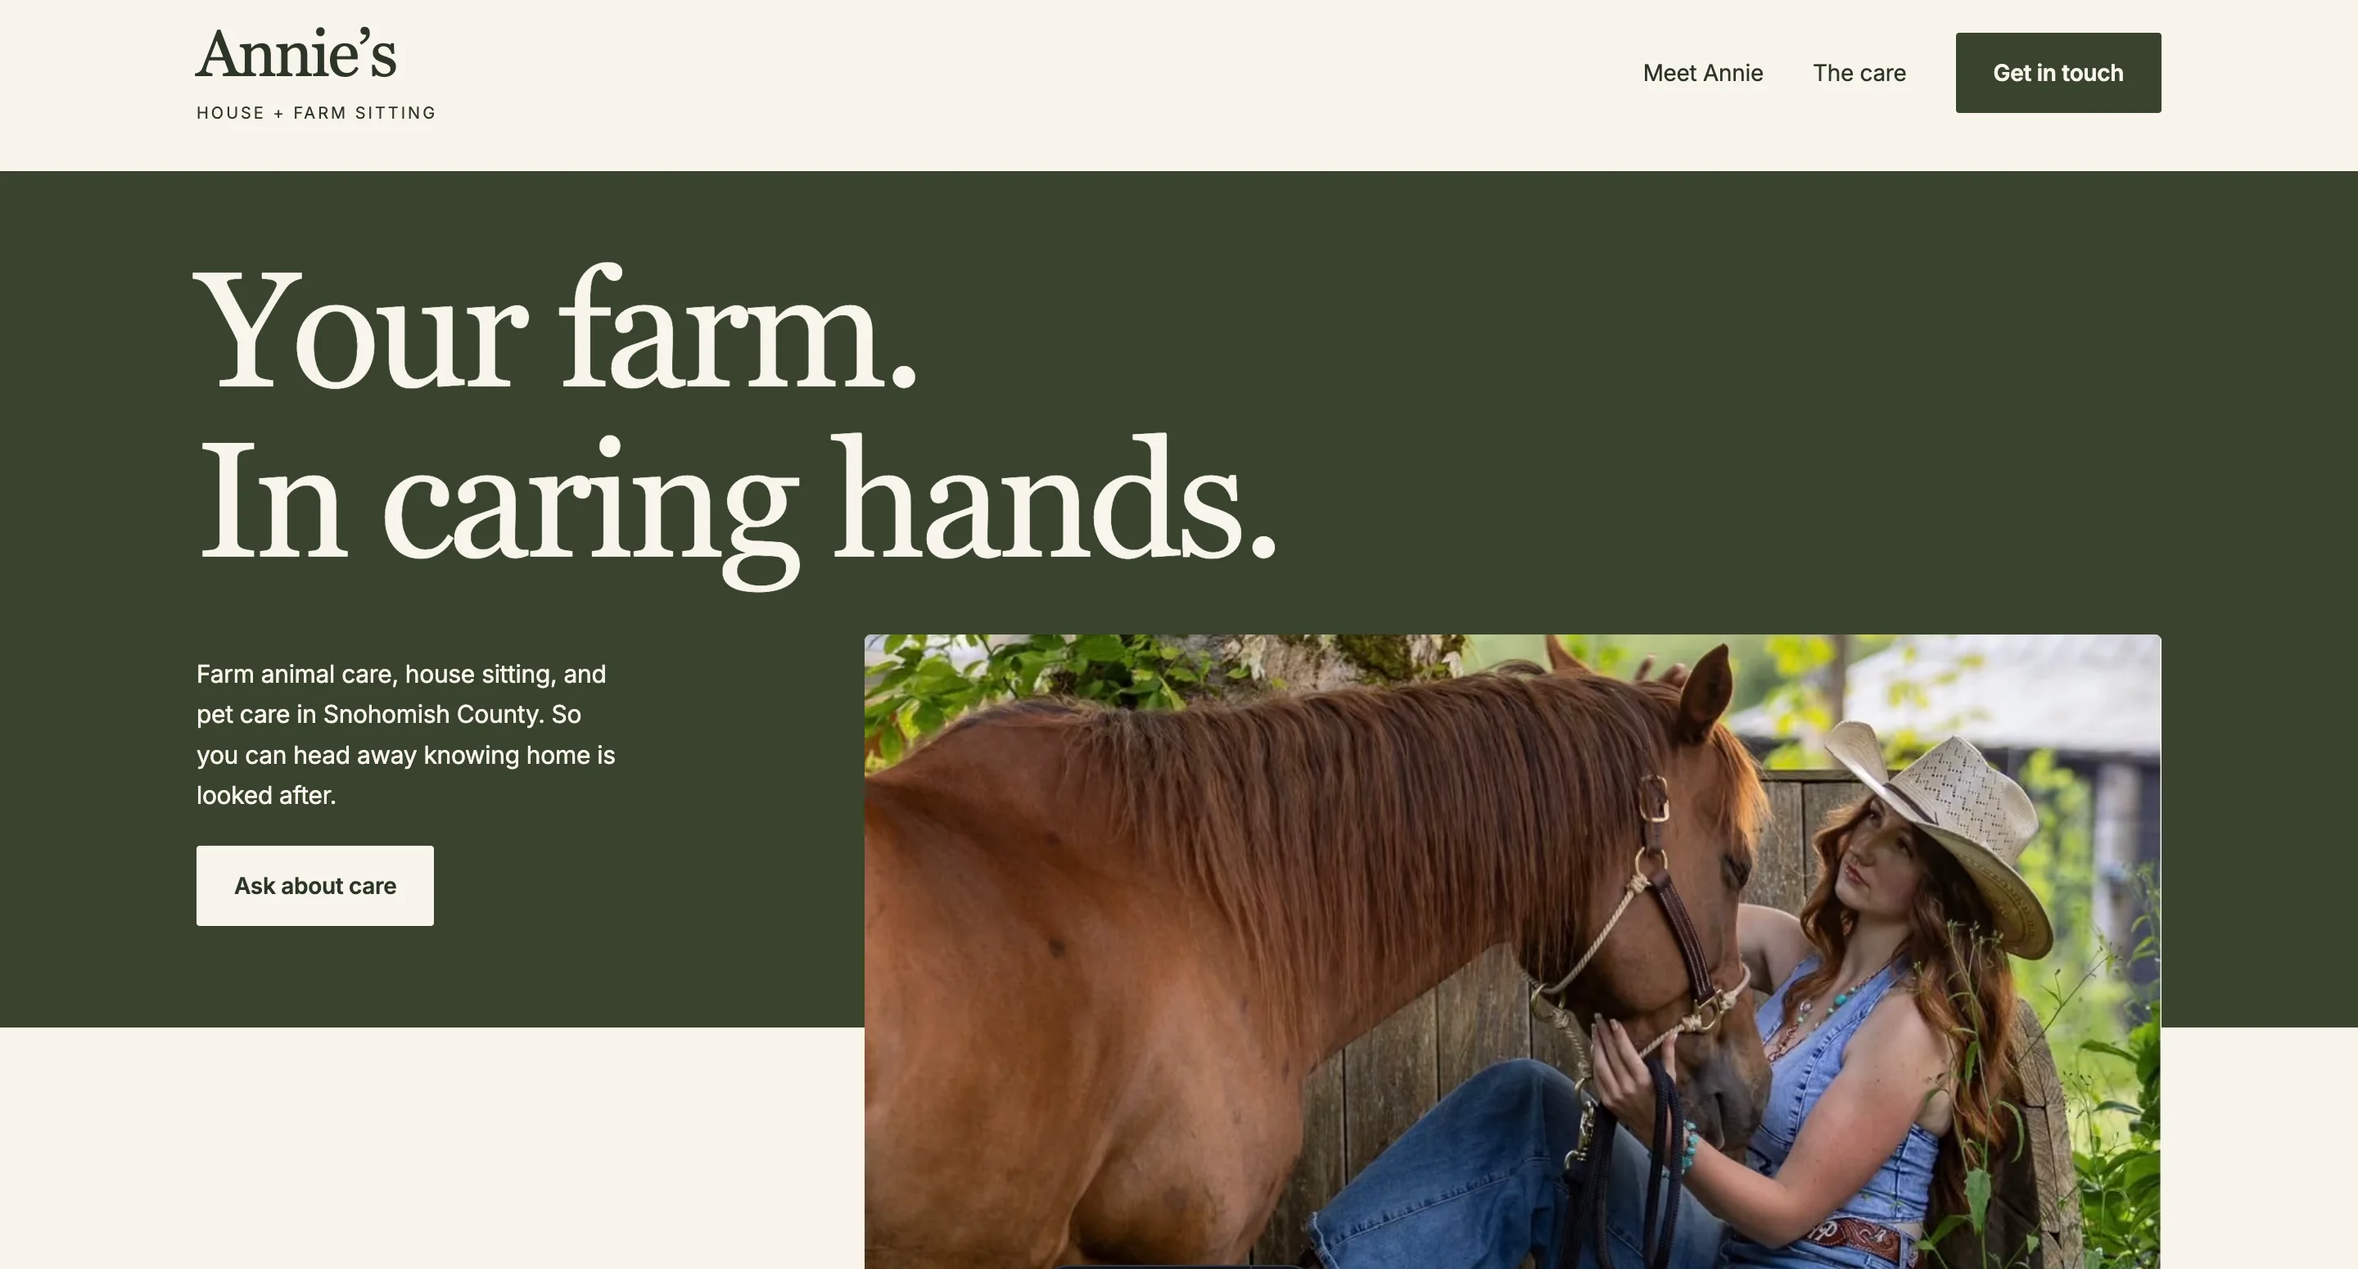
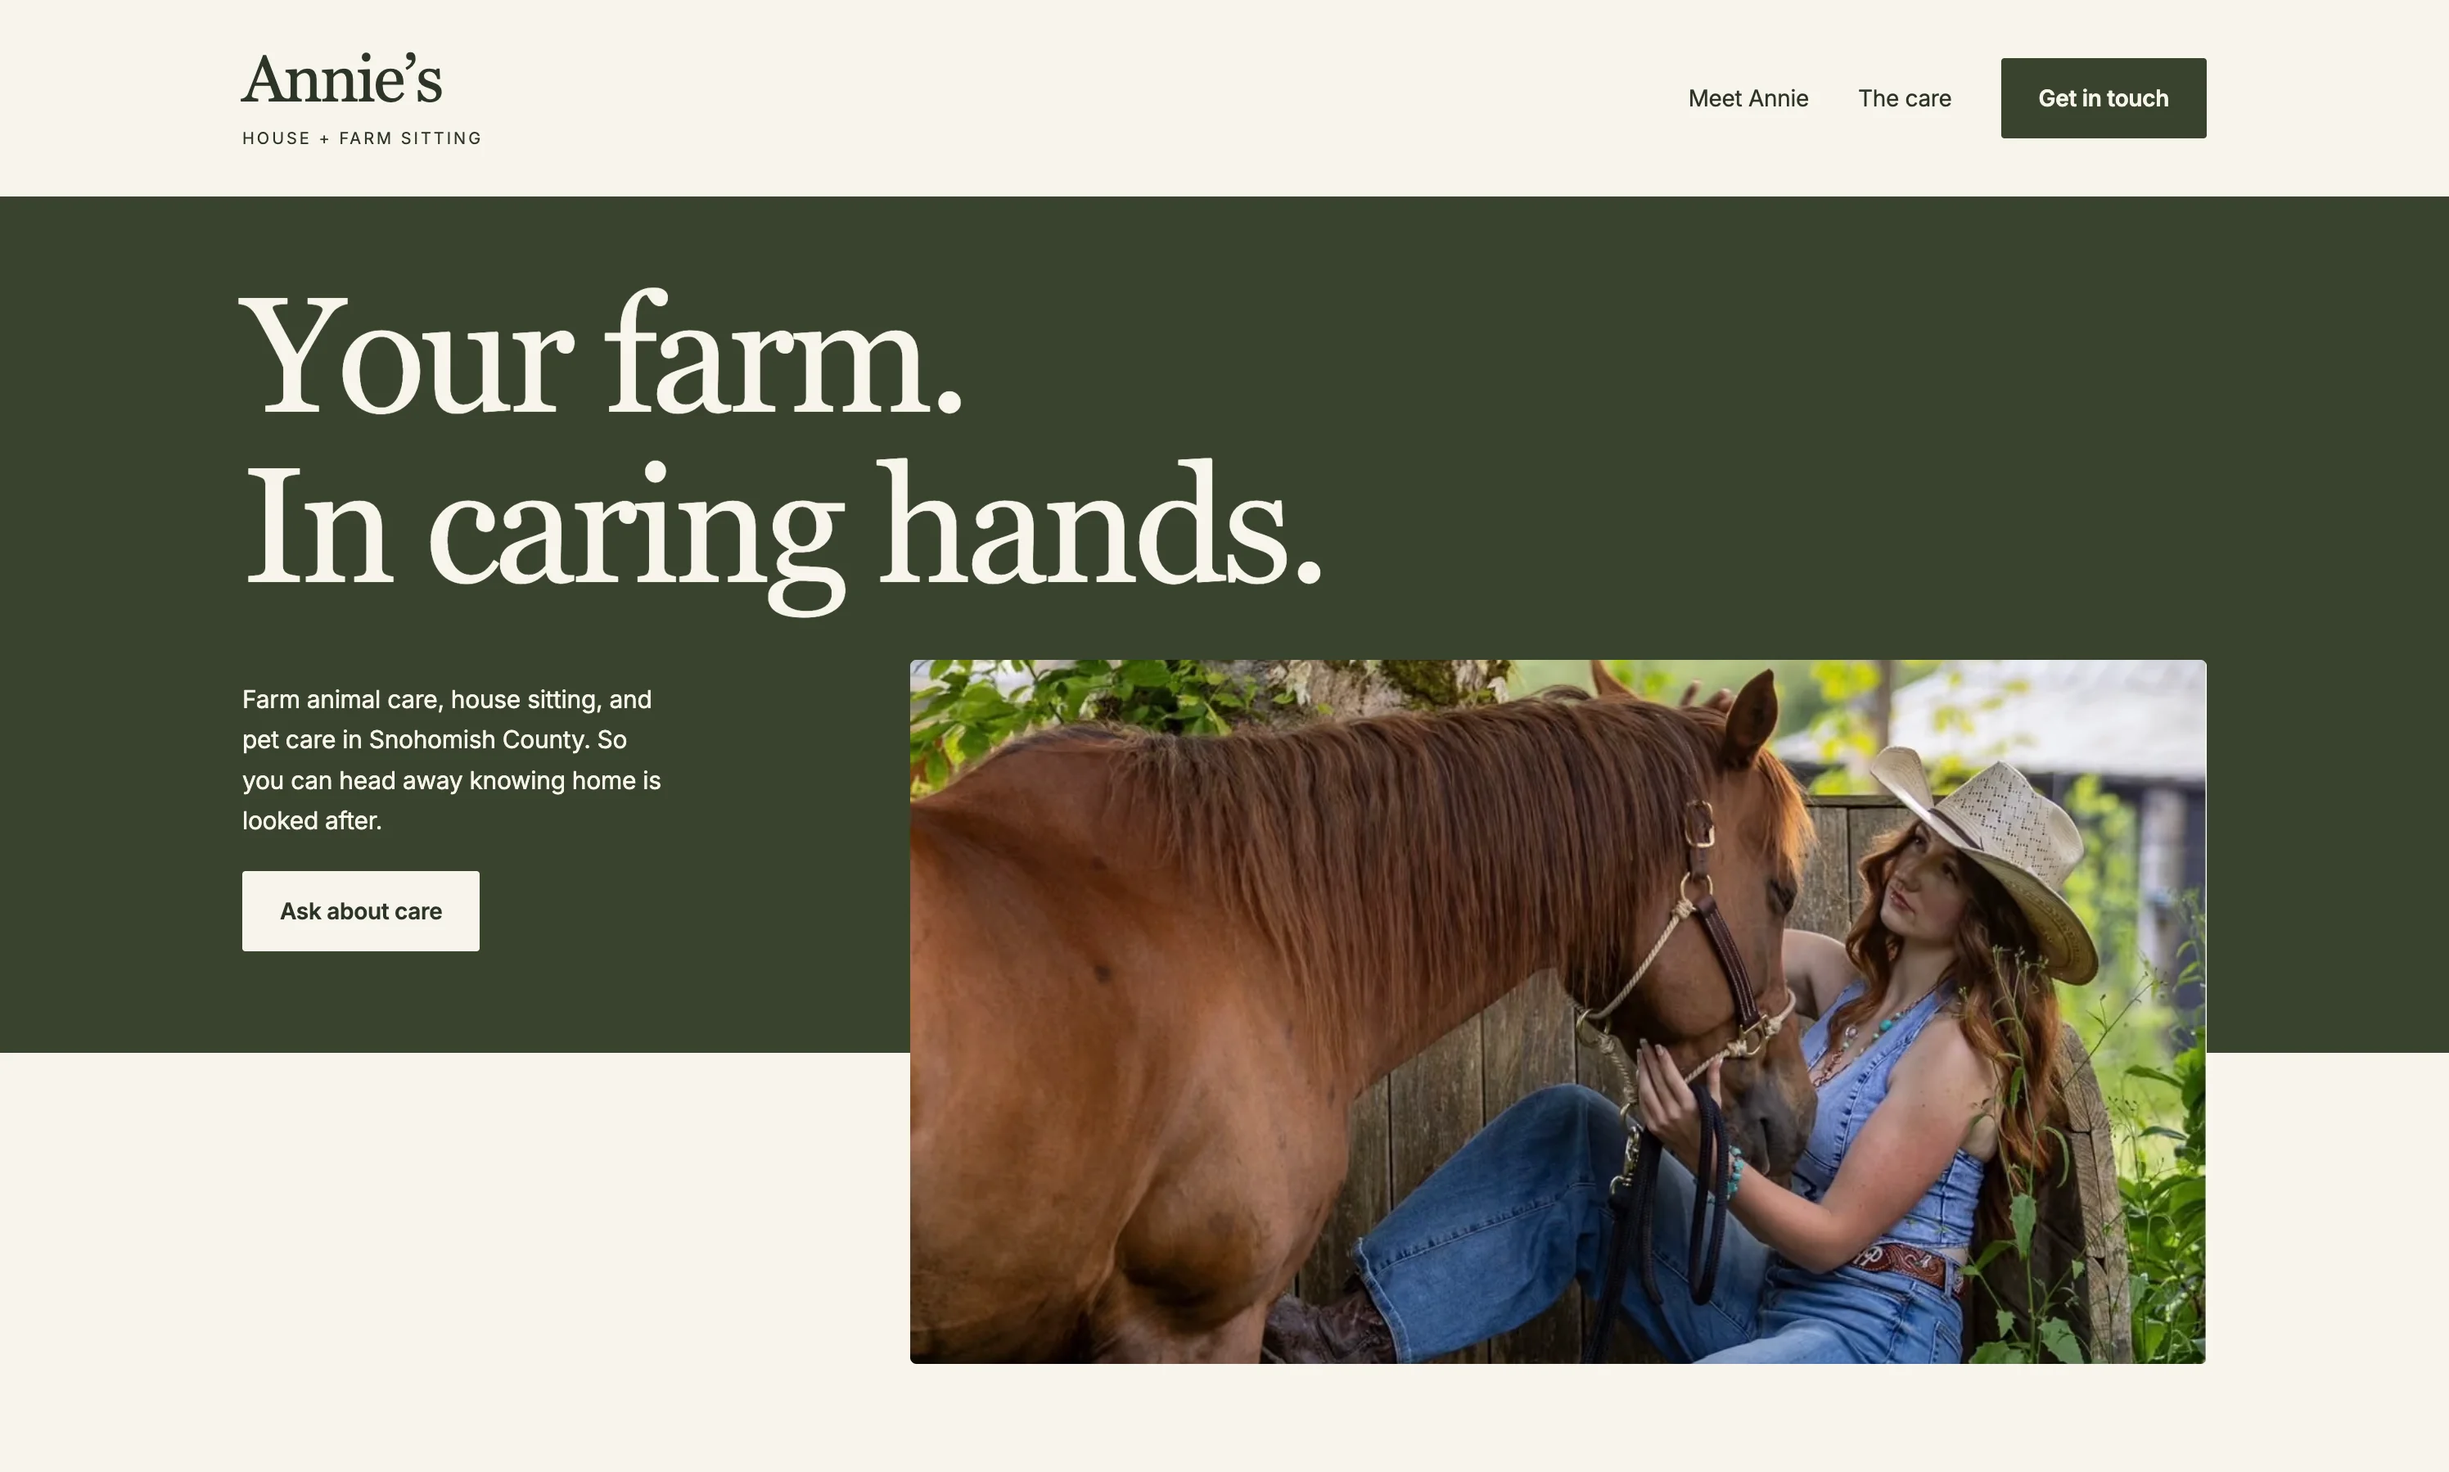
Add Annie's House + Farm Sitting screenshots

diff --git a/src/content/projects.ts b/src/content/projects.ts
@@ -318,12 +318,9 @@ const projectRecords: CaseStudyProject[] = [
     solution:
       "I'm leading end-to-end design in code, from brand positioning to layout, typography, and a token-based style system, and building an accessible date-range booking flow with React Aria. Availability will come from the owner's Google Calendar; it is currently mocked while the integration is built.",
     media: [
-      {
-        kind: "image",
-        src: "/projects/annies-house-farm-sitting/home.webp",
-        alt: "Annie’s House + Farm Sitting homepage",
-        label: "Homepage",
-      },
+      { kind: "image", src: "/projects/annies-house-farm-sitting/home.webp", alt: "Annie’s House + Farm Sitting homepage hero", label: "Homepage" },
+      { kind: "image", src: "/projects/annies-house-farm-sitting/inquiry.webp", alt: "Annie’s House + Farm Sitting inquiry form with availability calendar", label: "Availability calendar" },
+      { kind: "image", src: "/projects/annies-house-farm-sitting/about.webp", alt: "Annie’s House + Farm Sitting introduction section", label: "Meet Annie" },
     ],
     links: [],
   },
